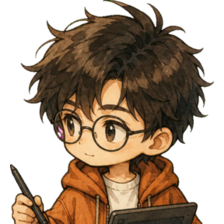
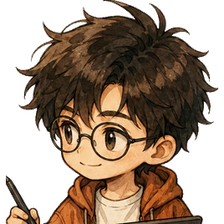
Dedicated Akari model + WotL office sprites (art batch 3)
Akari Natsume now has her own painted office sprite and matching head
portrait (no longer sharing the generic worker-6 stand-in). Genji, Haruto
and Sana were recut onto transparent WotL-style unit sprites in modern
studio clothes. Workers 1-4 got the same treatment.

Remaining staff (5, 7-17) and the medieval writer looks still need the
next art pass — image budget ran out mid-roster.

diff --git a/game_source/src/engine/data.ts b/game_source/src/engine/data.ts
@@ -839,10 +839,11 @@ export const STAFF_PORTRAITS: { img: string; pos: number }[] = [
 ];
 
 /* --------------------------------------------------------- worker looks
- * The ten painted chibi staff models. Each look pairs the full-body office
- * sprite with a portrait cropped from the very same painting, so the person
- * you hire from a menu is exactly the person who walks around the office.
- * Sprite 6 is reserved for the showrunner. */
+ * Painted WotL-style staff models (FFT: War of the Lions / Vanillaware).
+ * Each look pairs the full-body office sprite with a portrait cropped from
+ * the very same painting, so the person you hire is the person on the floor.
+ * Sprite 6 is a generic fallback; showrunners have their own models.
+ * Clothes are modern anime-studio wear — no medieval kit. */
 export interface WorkerLook {
   sprite: string;
   portrait: string;
@@ -904,7 +905,7 @@ export interface Showrunner {
 }
 export const SHOWRUNNERS: Showrunner[] = [
   { id: "steady", name: "Genji Ashida", title: "The Master Animator", img: "img/showrunner-a.jpg", sprite: "img/sprite-showrunner-steady.png", portrait: "img/portrait-showrunner-steady.png", perk: "Steady Hand — bubbles float 20% longer and editing notes are rarer." },
-  { id: "vision", name: "Akari Natsume", title: "The Visionary Director", img: "img/showrunner-b.jpg", sprite: "img/sprite-worker-6.png", portrait: "img/portrait-worker-6.png", perk: "Vision — dramatic arcs hit harder, no review below 3/10." },
+  { id: "vision", name: "Akari Natsume", title: "The Visionary Director", img: "img/showrunner-b.jpg", sprite: "img/sprite-showrunner-vision.png", portrait: "img/portrait-showrunner-vision.png", perk: "Vision — dramatic arcs hit harder, no review below 3/10." },
   { id: "producer", name: "Haruto Mori", title: "The Mogul Producer", img: "img/showrunner-c.jpg", sprite: "img/sprite-showrunner-producer.png", portrait: "img/portrait-showrunner-producer.png", perk: "Golden Rolodex — contracts pay 40% more and advances are bigger." },
   { id: "marketer", name: "Sana Kobayashi", title: "The Hype Machine", img: "img/showrunner-d.jpg", sprite: "img/sprite-showrunner-marketer.png", portrait: "img/portrait-showrunner-marketer.png", perk: "Buzz Engine — shows open with +10 hype and marketing runs faster." },
 ];

diff --git a/game_source/scripts/process_sprites.py b/game_source/scripts/process_sprites.py
@@ -1,0 +1,244 @@
+#!/usr/bin/env python3
+"""Crop unit sprites from generated sheets, punch out the backdrop, write
+matching 224x224 head portraits. Uses the same painting for both files."""
+from __future__ import annotations
+
+import os
+import sys
+from pathlib import Path
+
+from PIL import Image, ImageFilter, ImageChops
+
+ROOT = Path(__file__).resolve().parents[1] / "public" / "img"
+
+
+def corner_bg(im: Image.Image) -> tuple[int, int, int]:
+    px = im.convert("RGB")
+    w, h = px.size
+    samples = [
+        px.getpixel((2, 2)),
+        px.getpixel((w - 3, 2)),
+        px.getpixel((2, h - 3)),
+        px.getpixel((w - 3, h - 3)),
+        px.getpixel((w // 2, 2)),
+        px.getpixel((2, h // 2)),
+    ]
+    r = sum(s[0] for s in samples) // len(samples)
+    g = sum(s[1] for s in samples) // len(samples)
+    b = sum(s[2] for s in samples) // len(samples)
+    return r, g, b
+
+
+def dist2(a, b) -> int:
+    return (a[0] - b[0]) ** 2 + (a[1] - b[1]) ** 2 + (a[2] - b[2]) ** 2
+
+
+def alpha_from_bg(im: Image.Image, fuzz: int = 34) -> Image.Image:
+    """Flood-fill transparency from the edges so black clothes on a black
+    backdrop (or white sneakers on white paper) stay opaque."""
+    rgb = im.convert("RGB")
+    bg = corner_bg(rgb)
+    thresh = fuzz * fuzz * 3
+    w, h = rgb.size
+    src = rgb.load()
+    vis = bytearray(w * h)
+    stack = []
+
+    def maybe(x: int, y: int) -> None:
+        if x < 0 or y < 0 or x >= w or y >= h:
+            return
+        i = y * w + x
+        if vis[i]:
+            return
+        if dist2(src[x, y], bg) <= thresh:
+            vis[i] = 1
+            stack.append((x, y))
+
+    for x in range(w):
+        maybe(x, 0)
+        maybe(x, h - 1)
+    for y in range(h):
+        maybe(0, y)
+        maybe(w - 1, y)
+    while stack:
+        x, y = stack.pop()
+        maybe(x + 1, y)
+        maybe(x - 1, y)
+        maybe(x, y + 1)
+        maybe(x, y - 1)
+
+    out = Image.new("RGBA", rgb.size)
+    dst = out.load()
+    for y in range(h):
+        row = y * w
+        for x in range(w):
+            p = src[x, y]
+            if vis[row + x]:
+                d = dist2(p, bg)
+                a = 0 if d <= thresh * 0.4 else int(255 * (d - thresh * 0.4) / (thresh * 0.6))
+                dst[x, y] = (p[0], p[1], p[2], max(0, min(255, a)))
+            else:
+                dst[x, y] = (p[0], p[1], p[2], 255)
+    return out
+
+
+def bbox_from_alpha(im: Image.Image, pad: int = 8, min_a: int = 24):
+    a = im.split()[-1]
+    box = a.point(lambda v: 255 if v >= min_a else 0).getbbox()
+    if not box:
+        return (0, 0, im.width, im.height)
+    x0, y0, x1, y1 = box
+    x0 = max(0, x0 - pad)
+    y0 = max(0, y0 - pad)
+    x1 = min(im.width, x1 + pad)
+    y1 = min(im.height, y1 + pad)
+    return (x0, y0, x1, y1)
+
+
+def column_occupancy(im: Image.Image, min_a: int = 30) -> list[int]:
+    a = im.split()[-1]
+    w, h = im.size
+    px = a.load()
+    cols = []
+    for x in range(w):
+        n = 0
+        for y in range(h):
+            if px[x, y] >= min_a:
+                n += 1
+        cols.append(n)
+    return cols
+
+
+def split_figures(im: Image.Image) -> list[tuple[int, int, int, int]]:
+    """Return bboxes of distinct standing figures in a horizontal sheet."""
+    cols = column_occupancy(im)
+    w, h = im.size
+    # a column is "occupied" if more than 4% of its pixels are foreground
+    occ = [c > h * 0.04 for c in cols]
+    # merge tiny gaps (anti-aliasing between nearby pixels of one figure)
+    gap = max(6, w // 80)
+    cleaned = occ[:]
+    i = 0
+    while i < w:
+        if not cleaned[i]:
+            j = i
+            while j < w and not cleaned[j]:
+                j += 1
+            if 0 < (j - i) <= gap and i > 0 and j < w:
+                for k in range(i, j):
+                    cleaned[k] = True
+            i = j
+        else:
+            i += 1
+    regions = []
+    i = 0
+    while i < w:
+        if cleaned[i]:
+            j = i
+            while j < w and cleaned[j]:
+                j += 1
+            if (j - i) > w * 0.08:
+                regions.append((i, 0, j, h))
+            i = j
+        else:
+            i += 1
+    return regions
+
+
+def pick_three_quarter(regions: list[tuple[int, int, int, int]]) -> tuple[int, int, int, int]:
+    """Prefer a 3/4 view: not the first (usually front) and not the last (usually back)."""
+    if not regions:
+        raise ValueError("no figures")
+    if len(regions) == 1:
+        return regions[0]
+    if len(regions) == 2:
+        return regions[0]
+    # 0-index: for 5 poses (front, 3/4, side, 3/4-back, back) take index 1
+    # for 3 poses take the middle
+    if len(regions) >= 5:
+        return regions[1]
+    return regions[len(regions) // 2]
+
+
+def fit_sprite(im: Image.Image, target_h: int = 640) -> Image.Image:
+    box = bbox_from_alpha(im, pad=10)
+    cropped = im.crop(box)
+    w, h = cropped.size
+    if h <= 0:
+        return cropped
+    scale = target_h / h
+    nw = max(1, int(round(w * scale)))
+    return cropped.resize((nw, target_h), Image.Resampling.LANCZOS)
+
+
+def make_portrait(sprite: Image.Image, size: int = 224) -> Image.Image:
+    """Head-and-shoulders square from the same painting."""
+    box = bbox_from_alpha(sprite, pad=0)
+    x0, y0, x1, y1 = box
+    bw, bh = x1 - x0, y1 - y0
+    # head lives in the top ~42% of a 3.5-head-tall figure
+    head_h = int(bh * 0.46)
+    # a bit of shoulders
+    crop_h = int(bh * 0.42)
+    crop_w = int(max(crop_h * 0.95, bw * 0.92))
+    cx = (x0 + x1) // 2
+    top = y0
+    left = max(x0, cx - crop_w // 2)
+    right = min(x1, left + crop_w)
+    left = max(x0, right - crop_w)
+    bottom = min(y1, top + crop_h)
+    head = sprite.crop((left, top, right, bottom))
+    # pad to square
+    hw, hh = head.size
+    side = max(hw, hh)
+    sq = Image.new("RGBA", (side, side), (0, 0, 0, 0))
+    sq.paste(head, ((side - hw) // 2, (side - hh) // 2), head)
+    return sq.resize((size, size), Image.Resampling.LANCZOS)
+
+
+def process_one(src: Path, sprite_out: Path, portrait_out: Path | None, prefer_sheet: bool = True) -> None:
+    im = Image.open(src).convert("RGBA")
+    punched = alpha_from_bg(im)
+    if prefer_sheet:
+        regions = split_figures(punched)
+        print(f"  {src.name}: {len(regions)} figure(s) detected")
+        if len(regions) >= 2:
+            r = pick_three_quarter(regions)
+            # inset a little so we don't keep a neighbour's elbow
+            pad = max(4, (r[2] - r[0]) // 30)
+            r = (r[0] + pad, r[1], r[2] - pad, r[3])
+            punched = punched.crop(r)
+    sprite = fit_sprite(punched)
+    sprite_out.parent.mkdir(parents=True, exist_ok=True)
+    sprite.save(sprite_out, "PNG", optimize=True)
+    print(f"  wrote {sprite_out.name} {sprite.size}")
+    if portrait_out:
+        port = make_portrait(sprite)
+        port.save(portrait_out, "PNG", optimize=True)
+        print(f"  wrote {portrait_out.name} {port.size}")
+
+
+JOBS = [
+    ("sprite-showrunner-steady.png", "sprite-showrunner-steady.png", "portrait-showrunner-steady.png", True),
+    ("sprite-showrunner-vision.png", "sprite-showrunner-vision.png", "portrait-showrunner-vision.png", True),
+    ("sprite-showrunner-producer.png", "sprite-showrunner-producer.png", "portrait-showrunner-producer.png", True),
+    ("sprite-showrunner-marketer.png", "sprite-showrunner-marketer.png", "portrait-showrunner-marketer.png", True),
+    ("sprite-worker-1.png", "sprite-worker-1.png", "portrait-worker-1.png", True),
+    ("sprite-worker-2.png", "sprite-worker-2.png", "portrait-worker-2.png", True),
+    ("sprite-worker-3.png", "sprite-worker-3.png", "portrait-worker-3.png", True),
+    ("sprite-worker-4.png", "sprite-worker-4.png", "portrait-worker-4.png", True),
+]
+
+
+def main() -> None:
+    for src_name, spr_name, por_name, sheet in JOBS:
+        src = ROOT / src_name
+        if not src.exists():
+            print("missing", src)
+            continue
+        print("processing", src_name)
+        process_one(src, ROOT / spr_name, ROOT / por_name if por_name else None, prefer_sheet=sheet)
+
+
+if __name__ == "__main__":
+    main()
